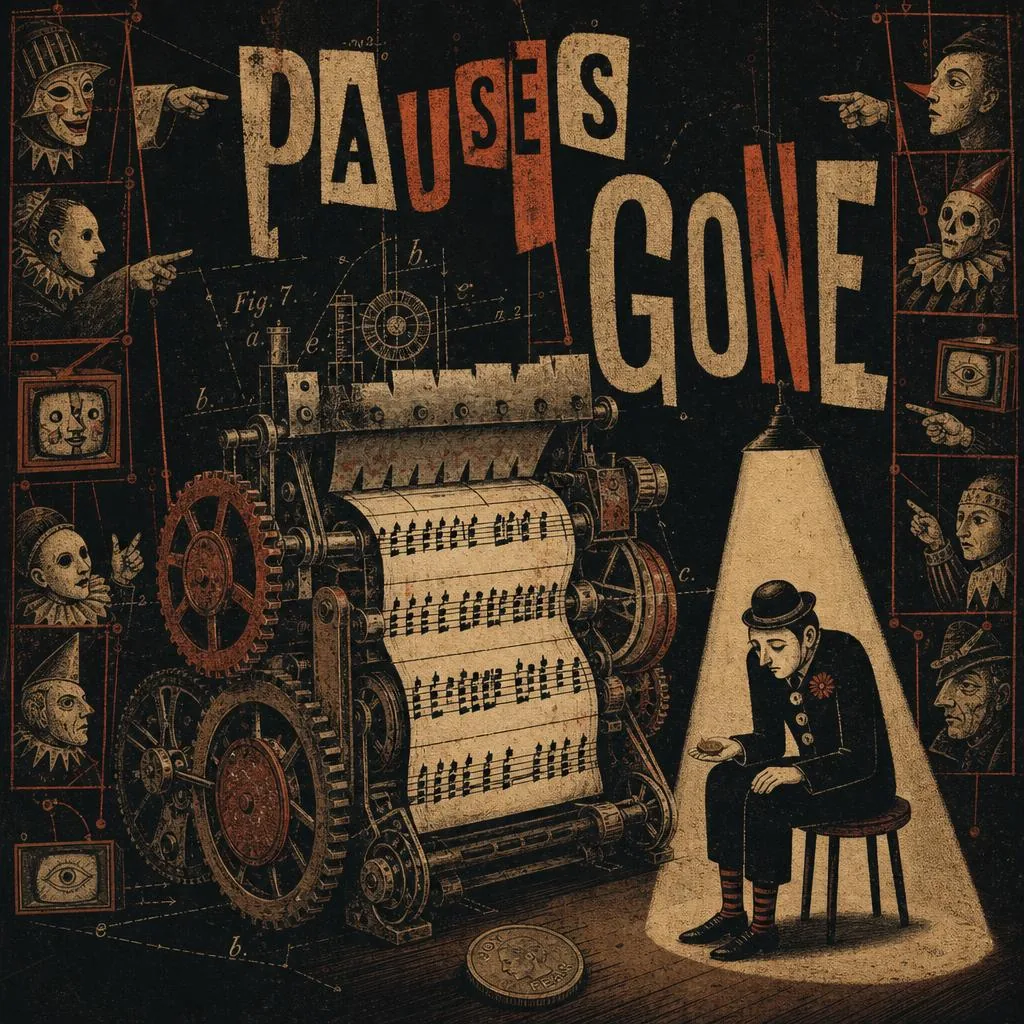
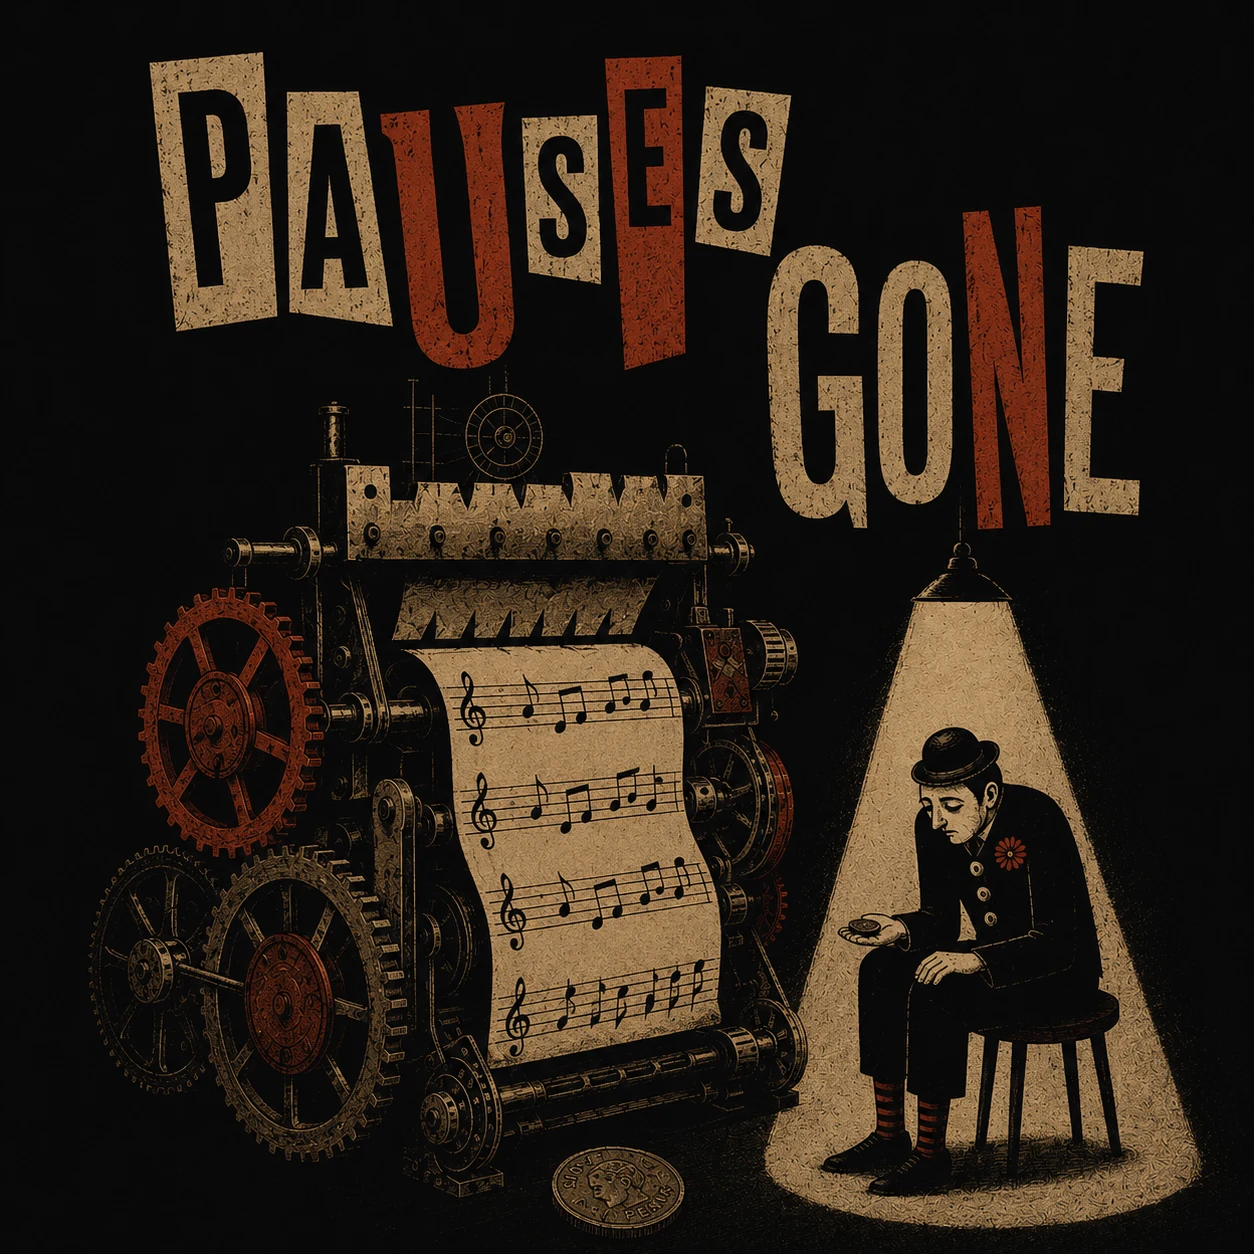
Junkyard Cabaret: refresh four title arts, hold cover during track switches
Replace cathedral-of-junk, pauses-gone, three-fifteen, and why-this-way title
art with new 1254x1254 versions; bump cache-busting versions and update OG
image dimensions. In the JC lightbox, keep the current title art visible when
switching tracks mid-playback instead of flashing back to the album cover.

diff --git a/main.js b/main.js
@@ -3784,10 +3784,10 @@ function initGWORLightbox() {
 
 function initJCLightbox() {
     const tracks = [
-        { title: 'Why This Way', file: 'audio/junkyard-cabaret/why-this-way.mp3', cover: 'audio/junkyard-cabaret/why-this-way-title.webp?v=202605242122', article: 'https://charleswilke.substack.com/p/the-narrower-path' },
-        { title: 'Cathedral of Junk', file: 'audio/junkyard-cabaret/cathedral-of-junk.mp3', cover: 'audio/junkyard-cabaret/cathedral-of-junk-title.webp?v=202605242122', article: 'https://charleswilke.substack.com/p/theaters-last-stand' },
-        { title: 'Pauses Gone', file: 'audio/junkyard-cabaret/pauses-gone.mp3', cover: 'audio/junkyard-cabaret/pauses-gone-title.webp?v=202605242122', article: 'https://charleswilke.substack.com/p/staccato-again' },
-        { title: 'Three Fifteen', file: 'audio/junkyard-cabaret/three-fifteen.mp3', cover: 'audio/junkyard-cabaret/three-fifteen-title.webp?v=202605242122', article: 'https://charleswilke.substack.com/p/accumulated-velocity' },
+        { title: 'Why This Way', file: 'audio/junkyard-cabaret/why-this-way.mp3', cover: 'audio/junkyard-cabaret/why-this-way-title.webp?v=202605251048', article: 'https://charleswilke.substack.com/p/the-narrower-path' },
+        { title: 'Cathedral of Junk', file: 'audio/junkyard-cabaret/cathedral-of-junk.mp3', cover: 'audio/junkyard-cabaret/cathedral-of-junk-title.webp?v=202605251048', article: 'https://charleswilke.substack.com/p/theaters-last-stand' },
+        { title: 'Pauses Gone', file: 'audio/junkyard-cabaret/pauses-gone.mp3', cover: 'audio/junkyard-cabaret/pauses-gone-title.webp?v=202605251048', article: 'https://charleswilke.substack.com/p/staccato-again' },
+        { title: 'Three Fifteen', file: 'audio/junkyard-cabaret/three-fifteen.mp3', cover: 'audio/junkyard-cabaret/three-fifteen-title.webp?v=202605251048', article: 'https://charleswilke.substack.com/p/accumulated-velocity' },
         { title: 'House Lights', file: 'audio/junkyard-cabaret/house-lights.mp3', cover: 'audio/junkyard-cabaret/house-lights-title.webp?v=202605242122', article: 'https://claude.ai/share/55400033-7fb7-4d4f-bb85-ddadd5fdc57f' },
         { title: 'The New Survivalism', file: 'audio/junkyard-cabaret/the-new-survivalism.mp3?v=20260523a', cover: 'audio/junkyard-cabaret/the-new-survivalism-title.webp?v=202605242122', article: 'https://charleswilke.substack.com/p/the-new-survivalism' },
         { title: 'Hip Height', file: 'audio/junkyard-cabaret/hip-height.mp3', cover: 'audio/junkyard-cabaret/hip-height-title.webp?v=202605242122', article: 'https://charleswilke.substack.com/p/know-thyself' }
@@ -3822,6 +3822,7 @@ function initJCLightbox() {
     const audioEl = registerManagedAudio(audio);
     let currentIndex = 0;
     let trackItems = [];
+    let isChangingTrack = false;
 
     function resolveTrackIndex(trackSlug) {
         const matchedIndex = findTrackIndexBySlug(tracks, trackSlug);
@@ -3890,13 +3891,15 @@ function initJCLightbox() {
 
     function loadTrack(index, options = {}) {
         const { syncHash = true } = options;
+        const wasPlaying = !audio.paused;
+        isChangingTrack = wasPlaying;
         currentIndex = index;
         audio.src = tracks[index].file;
         audio.load();
-        if (audio.paused) {
-            showAlbumCover();
-        } else {
+        if (wasPlaying) {
             showTrackCover(index);
+        } else {
+            showAlbumCover();
         }
         updateNowPlayingDisplays({
             trackDisplay,
@@ -4019,6 +4022,7 @@ function initJCLightbox() {
     });
 
     audio.addEventListener('play', function() {
+        isChangingTrack = false;
         if (playPauseIcon) {
             playPauseIcon.textContent = PAUSE_ICON;
         }
@@ -4031,7 +4035,7 @@ function initJCLightbox() {
             playPauseIcon.textContent = PLAY_ICON;
         }
         visualizer.stop();
-        if (!audio.ended) {
+        if (!audio.ended && !isChangingTrack) {
             showAlbumCover();
         }
     });

diff --git a/songs/junkyard-cabaret/cathedral-of-junk/index.html b/songs/junkyard-cabaret/cathedral-of-junk/index.html
@@ -13,16 +13,16 @@
     <meta property="og:url" content="https://charleswilke.com/songs/junkyard-cabaret/cathedral-of-junk/">
     <meta property="og:title" content="Cathedral of Junk | Junkyard Cabaret">
     <meta property="og:description" content="A track from Junkyard Cabaret. A ramshackle album-in-progress exploring conviction, imperfection, and the human insistence on making things by hand.">
-    <meta property="og:image" content="https://charleswilke.com/audio/junkyard-cabaret/cathedral-of-junk-title.webp?v=202605242122">
-    <meta property="og:image:width" content="1024">
-    <meta property="og:image:height" content="1024">
+    <meta property="og:image" content="https://charleswilke.com/audio/junkyard-cabaret/cathedral-of-junk-title.webp?v=202605251048">
+    <meta property="og:image:width" content="1254">
+    <meta property="og:image:height" content="1254">
     <meta property="og:image:alt" content="Cathedral of Junk title art">
 
     <meta name="twitter:card" content="summary_large_image">
     <meta name="twitter:url" content="https://charleswilke.com/songs/junkyard-cabaret/cathedral-of-junk/">
     <meta name="twitter:title" content="Cathedral of Junk | Junkyard Cabaret">
     <meta name="twitter:description" content="A track from Junkyard Cabaret. A ramshackle album-in-progress exploring conviction, imperfection, and the human insistence on making things by hand.">
-    <meta name="twitter:image" content="https://charleswilke.com/audio/junkyard-cabaret/cathedral-of-junk-title.webp?v=202605242122">
+    <meta name="twitter:image" content="https://charleswilke.com/audio/junkyard-cabaret/cathedral-of-junk-title.webp?v=202605251048">
     <meta name="twitter:image:alt" content="Cathedral of Junk title art">
 
     <link rel="icon" type="image/x-icon" href="/favicon.ico">
@@ -41,7 +41,7 @@
     "name": "Junkyard Cabaret"
   },
   "url": "https://charleswilke.com/songs/junkyard-cabaret/cathedral-of-junk/",
-  "image": "https://charleswilke.com/audio/junkyard-cabaret/cathedral-of-junk-title.webp?v=202605242122"
+  "image": "https://charleswilke.com/audio/junkyard-cabaret/cathedral-of-junk-title.webp?v=202605251048"
 }
     </script>
 

diff --git a/songs/junkyard-cabaret/three-fifteen/index.html b/songs/junkyard-cabaret/three-fifteen/index.html
@@ -13,16 +13,16 @@
     <meta property="og:url" content="https://charleswilke.com/songs/junkyard-cabaret/three-fifteen/">
     <meta property="og:title" content="Three Fifteen | Junkyard Cabaret">
     <meta property="og:description" content="A track from Junkyard Cabaret. A ramshackle album-in-progress exploring conviction, imperfection, and the human insistence on making things by hand.">
-    <meta property="og:image" content="https://charleswilke.com/audio/junkyard-cabaret/three-fifteen-title.webp?v=202605242122">
-    <meta property="og:image:width" content="1024">
-    <meta property="og:image:height" content="1024">
+    <meta property="og:image" content="https://charleswilke.com/audio/junkyard-cabaret/three-fifteen-title.webp?v=202605251048">
+    <meta property="og:image:width" content="1254">
+    <meta property="og:image:height" content="1254">
     <meta property="og:image:alt" content="Three Fifteen title art">
 
     <meta name="twitter:card" content="summary_large_image">
     <meta name="twitter:url" content="https://charleswilke.com/songs/junkyard-cabaret/three-fifteen/">
     <meta name="twitter:title" content="Three Fifteen | Junkyard Cabaret">
     <meta name="twitter:description" content="A track from Junkyard Cabaret. A ramshackle album-in-progress exploring conviction, imperfection, and the human insistence on making things by hand.">
-    <meta name="twitter:image" content="https://charleswilke.com/audio/junkyard-cabaret/three-fifteen-title.webp?v=202605242122">
+    <meta name="twitter:image" content="https://charleswilke.com/audio/junkyard-cabaret/three-fifteen-title.webp?v=202605251048">
     <meta name="twitter:image:alt" content="Three Fifteen title art">
 
     <link rel="icon" type="image/x-icon" href="/favicon.ico">
@@ -41,7 +41,7 @@
     "name": "Junkyard Cabaret"
   },
   "url": "https://charleswilke.com/songs/junkyard-cabaret/three-fifteen/",
-  "image": "https://charleswilke.com/audio/junkyard-cabaret/three-fifteen-title.webp?v=202605242122"
+  "image": "https://charleswilke.com/audio/junkyard-cabaret/three-fifteen-title.webp?v=202605251048"
 }
     </script>
 

diff --git a/songs/junkyard-cabaret/pauses-gone/index.html b/songs/junkyard-cabaret/pauses-gone/index.html
@@ -13,16 +13,16 @@
     <meta property="og:url" content="https://charleswilke.com/songs/junkyard-cabaret/pauses-gone/">
     <meta property="og:title" content="Pauses Gone | Junkyard Cabaret">
     <meta property="og:description" content="A track from Junkyard Cabaret. A ramshackle album-in-progress exploring conviction, imperfection, and the human insistence on making things by hand.">
-    <meta property="og:image" content="https://charleswilke.com/audio/junkyard-cabaret/pauses-gone-title.webp?v=202605242122">
-    <meta property="og:image:width" content="1024">
-    <meta property="og:image:height" content="1024">
+    <meta property="og:image" content="https://charleswilke.com/audio/junkyard-cabaret/pauses-gone-title.webp?v=202605251048">
+    <meta property="og:image:width" content="1254">
+    <meta property="og:image:height" content="1254">
     <meta property="og:image:alt" content="Pauses Gone title art">
 
     <meta name="twitter:card" content="summary_large_image">
     <meta name="twitter:url" content="https://charleswilke.com/songs/junkyard-cabaret/pauses-gone/">
     <meta name="twitter:title" content="Pauses Gone | Junkyard Cabaret">
     <meta name="twitter:description" content="A track from Junkyard Cabaret. A ramshackle album-in-progress exploring conviction, imperfection, and the human insistence on making things by hand.">
-    <meta name="twitter:image" content="https://charleswilke.com/audio/junkyard-cabaret/pauses-gone-title.webp?v=202605242122">
+    <meta name="twitter:image" content="https://charleswilke.com/audio/junkyard-cabaret/pauses-gone-title.webp?v=202605251048">
     <meta name="twitter:image:alt" content="Pauses Gone title art">
 
     <link rel="icon" type="image/x-icon" href="/favicon.ico">
@@ -41,7 +41,7 @@
     "name": "Junkyard Cabaret"
   },
   "url": "https://charleswilke.com/songs/junkyard-cabaret/pauses-gone/",
-  "image": "https://charleswilke.com/audio/junkyard-cabaret/pauses-gone-title.webp?v=202605242122"
+  "image": "https://charleswilke.com/audio/junkyard-cabaret/pauses-gone-title.webp?v=202605251048"
 }
     </script>
 

diff --git a/songs/junkyard-cabaret/why-this-way/index.html b/songs/junkyard-cabaret/why-this-way/index.html
@@ -13,16 +13,16 @@
     <meta property="og:url" content="https://charleswilke.com/songs/junkyard-cabaret/why-this-way/">
     <meta property="og:title" content="Why This Way | Junkyard Cabaret">
     <meta property="og:description" content="A track from Junkyard Cabaret, based on the Substack essay The Narrower Path.">
-    <meta property="og:image" content="https://charleswilke.com/audio/junkyard-cabaret/why-this-way-title.webp?v=202605242122">
-    <meta property="og:image:width" content="1024">
-    <meta property="og:image:height" content="1024">
+    <meta property="og:image" content="https://charleswilke.com/audio/junkyard-cabaret/why-this-way-title.webp?v=202605251048">
+    <meta property="og:image:width" content="1254">
+    <meta property="og:image:height" content="1254">
     <meta property="og:image:alt" content="Why This Way title art">
 
     <meta name="twitter:card" content="summary_large_image">
     <meta name="twitter:url" content="https://charleswilke.com/songs/junkyard-cabaret/why-this-way/">
     <meta name="twitter:title" content="Why This Way | Junkyard Cabaret">
     <meta name="twitter:description" content="A track from Junkyard Cabaret, based on the Substack essay The Narrower Path.">
-    <meta name="twitter:image" content="https://charleswilke.com/audio/junkyard-cabaret/why-this-way-title.webp?v=202605242122">
+    <meta name="twitter:image" content="https://charleswilke.com/audio/junkyard-cabaret/why-this-way-title.webp?v=202605251048">
     <meta name="twitter:image:alt" content="Why This Way title art">
 
     <link rel="icon" type="image/x-icon" href="/favicon.ico">
@@ -41,7 +41,7 @@
     "name": "Junkyard Cabaret"
   },
   "url": "https://charleswilke.com/songs/junkyard-cabaret/why-this-way/",
-  "image": "https://charleswilke.com/audio/junkyard-cabaret/why-this-way-title.webp?v=202605242122"
+  "image": "https://charleswilke.com/audio/junkyard-cabaret/why-this-way-title.webp?v=202605251048"
 }
     </script>
 
